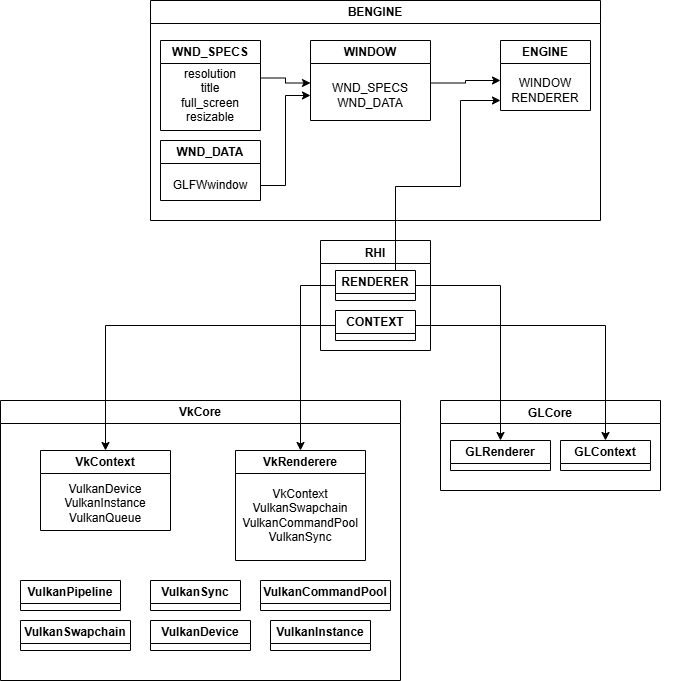
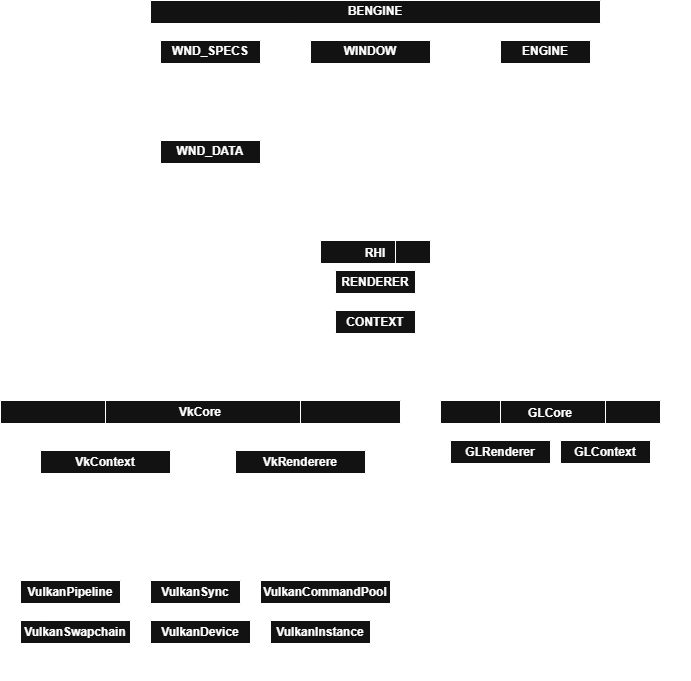
basic keyboard input handeling

diff --git a/src/BEngine/Inputs/Keyboard.hpp b/src/BEngine/Inputs/Keyboard.hpp
@@ -1,0 +1,110 @@
+#pragma once
+
+#include <queue>
+#include <bitset>
+#include <optional>
+
+class Keyboard
+{
+    friend class Window;
+
+public:
+    class Event
+    {
+        public:
+            enum class Type
+            {
+                Press,
+                Release,
+                Invalid
+            };     
+
+        private:
+            Type type;
+            unsigned char code;
+
+        public:
+            Event() noexcept : type(Type::Invalid), code(0u) {}
+            Event(Type type, unsigned char code) noexcept : type(type), code(code) {}
+
+            bool IsPressed() const noexcept { return type == Type::Press; }
+            bool IsReleased() const noexcept { return type == Type::Release; }
+            bool IsValid() const noexcept { return type != Type::Invalid; }
+
+            unsigned char GetCode() const noexcept { return code; }
+    };
+
+public:
+    Keyboard() = default;
+    Keyboard(const Keyboard&) = delete;
+    Keyboard& operator=(const Keyboard&) = delete;
+
+
+    bool KeyIsPressed(unsigned char) const noexcept;
+    Event ReadKey() noexcept;
+    bool KeyIsEmpty() const noexcept;
+    void ClearQueue() noexcept;
+
+    char ReadChar() noexcept;
+    bool CharIsEmpty() const noexcept;
+    void ClearChar() noexcept;
+
+    void Clear() noexcept;
+
+    // autorepeat controls
+    void EnableAutorepeat() noexcept;
+    void DisableAutorepeat() noexcept;
+    bool AutorepeatIsEnabled() const noexcept;
+
+private:
+    void OnKeyPressed(unsigned char keycode) noexcept;
+    void OnKeyReleased(unsigned char keycode) noexcept;
+    void OnChar(char character) noexcept;
+
+    // clears the keystates
+    void ClearState() noexcept;
+
+    template<class T>
+    static void TrimBuffer(std::queue<T>& buffer) noexcept;
+
+private:
+
+    static constexpr unsigned int nKeys = 265u; // number of virtual keycodes
+    static constexpr unsigned int bufferSize = 16u;
+
+    bool autorepeatEnabled = true;
+    
+    std::bitset<nKeys> keystates;
+    std::queue<Event> keybuffer;
+    std::queue<char> charbuffer;
+
+
+    // to be deleted
+public:
+    void SetKey(int key, bool pressed)
+    {
+        if (pressed)
+            current.set(key);
+        else
+            current.reset(key);
+    }
+
+    bool IsDown(int key) const
+    {
+        return current.test(key);
+    }
+
+    bool WasPressed(int key) const
+    {
+        return current.test(key) && !previous.test(key);
+    }
+
+    void EndFrame()
+    {
+        previous = current;
+    }
+
+    std::bitset<nKeys> current;
+    std::bitset<nKeys> previous;
+
+};

diff --git a/src/BEngine/Window.hpp b/src/BEngine/Window.hpp
@@ -2,6 +2,10 @@
 #include <string>
 #include "GLFW/glfw3.h"
 
+#include "Inputs/Keyboard.hpp"
+#include "Inputs/Mouse.hpp"
+
+
 struct WND_SPECS
 {
     std::string wnd_name;
@@ -27,12 +31,19 @@ public:
     void FullScreen();
 
     int ShouldClose() const;
+    void Close() const;
 
     void PoolEvents() const;
 
     GLFWwindow* GetHandle() const { return window.glfwHandle; }
 
+    void ProcessInput();
+
 private:
     WND_SPECS specs;
     WND_DATA window;
+
+public:
+    Keyboard keyboard;
+    Mouse mouse;
 };

diff --git a/src/BEngine/Window.cpp b/src/BEngine/Window.cpp
@@ -20,6 +20,12 @@ int Window::ShouldClose() const
     return glfwWindowShouldClose(window.glfwHandle);
 }
 
+void Window::Close() const
+{
+    glfwSetWindowShouldClose(window.glfwHandle, true);
+}
+
+
 void Window::PoolEvents() const
 {
     glfwPollEvents();
@@ -29,4 +35,9 @@ Window::~Window()
 {
     if (window.glfwHandle)
         glfwDestroyWindow(window.glfwHandle);
+}
+
+void Window::ProcessInput()
+{    
+    keyboard.SetKey(GLFW_KEY_ESCAPE, glfwGetKey(window.glfwHandle, GLFW_KEY_ESCAPE));
 }

diff --git a/src/BEngine/Scene.cpp b/src/BEngine/Scene.cpp
@@ -20,6 +20,9 @@ void Scene::Run()
 
 void Scene::Update()
 {
+    window->ProcessInput();
+    if(window->keyboard.WasPressed(GLFW_KEY_ESCAPE))
+        window->Close();
     window->PoolEvents();
     Engine::GetRenderer()->RenderFrame();
 }

diff --git a/src/BEngine/Engine.hpp b/src/BEngine/Engine.hpp
@@ -3,7 +3,7 @@
 #include <vector>
 #include "Renderer.hpp"
 
-
+#include "Inputs/Keyboard.hpp"
 
 class Engine
 {
@@ -28,5 +28,5 @@ private:
     static Window* window;
 public:
     static Renderer* renderer;
- 
+    
 };

diff --git a/src/BEngine/Inputs/Mouse.hpp b/src/BEngine/Inputs/Mouse.hpp
@@ -1,0 +1,11 @@
+#pragma once
+
+class Mouse
+{
+    friend class Window;
+
+public:
+
+private:
+
+};

diff --git a/README.md b/README.md
@@ -1,4 +1,4 @@
-| <img src="imgs/placeholder.jpg" width="200px"/> | **BWORLD** |
+| <img src="imgs/placeholder.jpg" width="120px"/> | **BWORLD** |
 |------------------------------------------------------|--------------------------|
 
 # Overview
